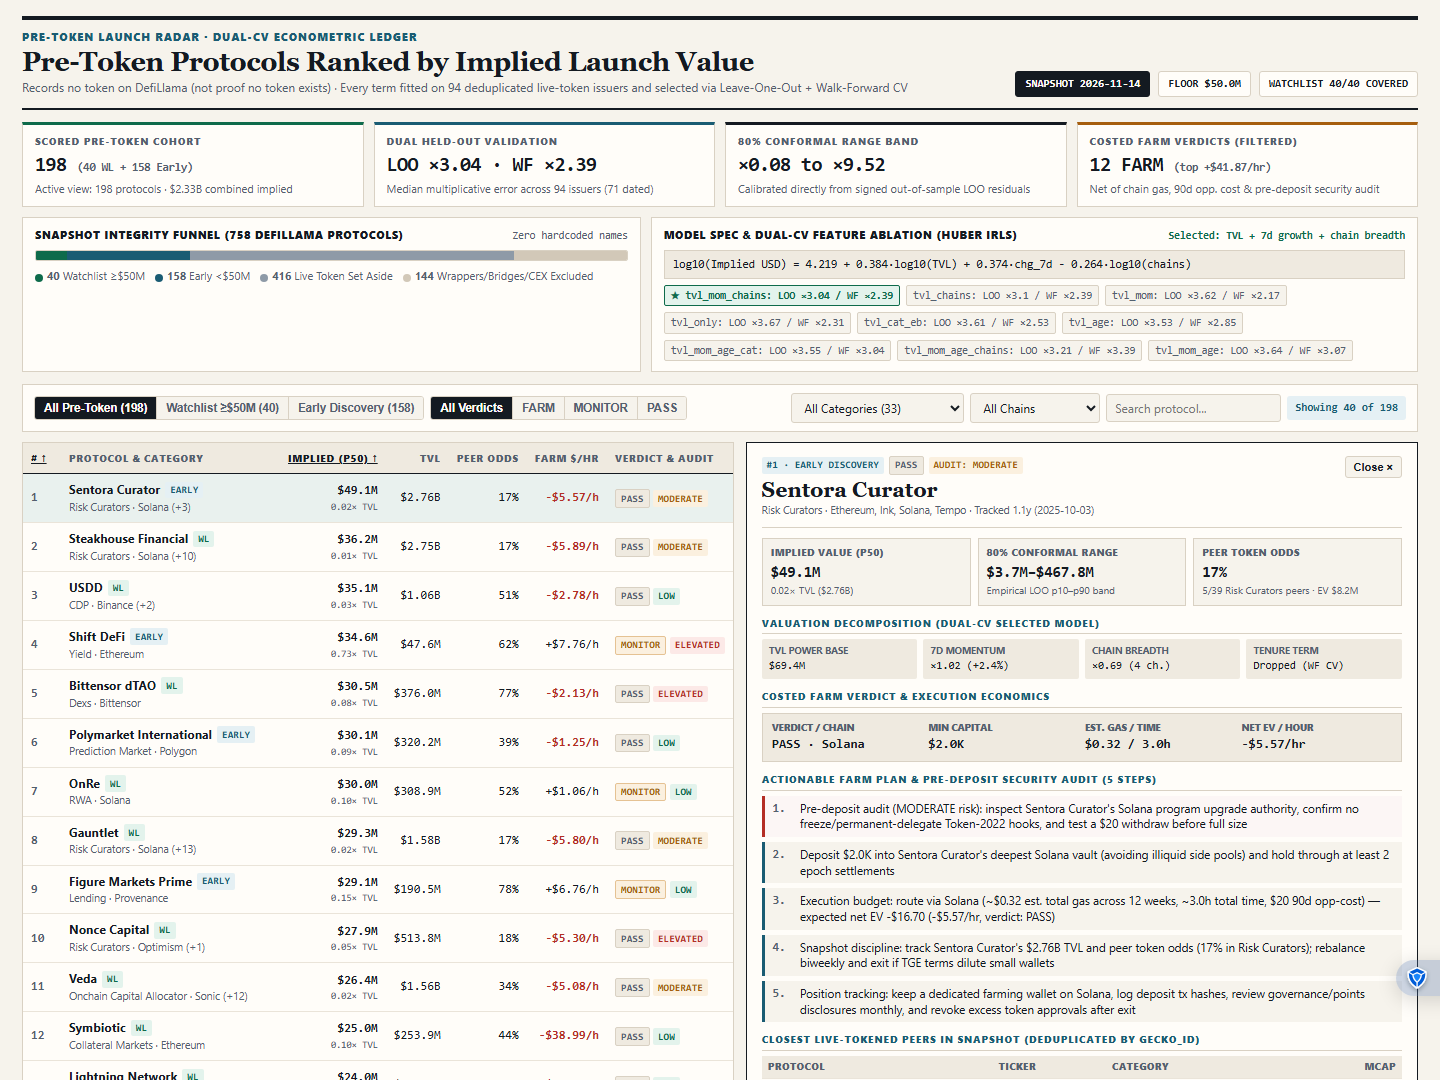
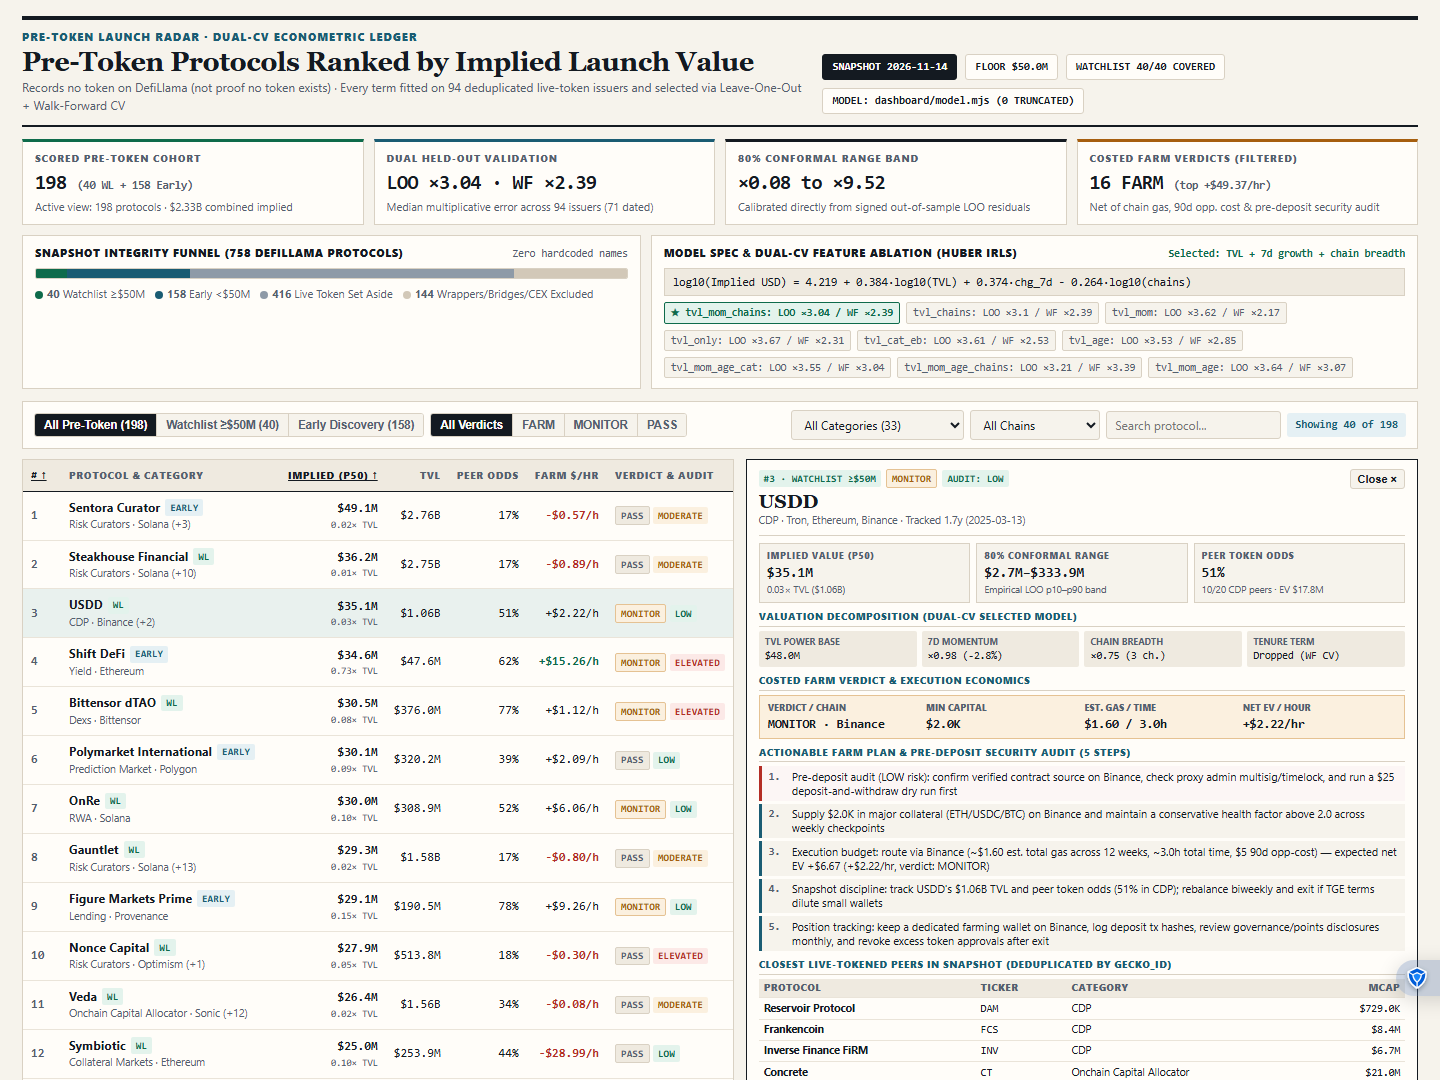
v3: yield-adjusted deposit financing friction, unclipped 4-peer detail panel, and 0-truncated model badge

Changed region(s): [[0.0, 0.0306, 1.0, 1.0]]

diff --git a/dashboard/app.css b/dashboard/app.css
@@ -382,24 +382,24 @@ td.num {
 .detail {
   background: var(--surface);
   border: 1.5px solid var(--rule-strong);
-  padding: 13px 15px;
+  padding: 9px 12px;
   position: sticky;
-  top: 12px;
+  top: 8px;
 }
 .detail-top {
   display: flex;
   justify-content: space-between;
   align-items: flex-start;
-  gap: 10px;
+  gap: 8px;
   border-bottom: 1.5px solid var(--rule);
-  padding-bottom: 9px;
-  margin-bottom: 10px;
+  padding-bottom: 6px;
+  margin-bottom: 7px;
 }
 .detail-top h2 {
   font-family: var(--serif);
-  font-size: 21px;
+  font-size: 19px;
   font-weight: 900;
-  line-height: 1.1;
+  line-height: 1.08;
 }
 .close-btn {
   border: 1px solid var(--rule);
@@ -407,23 +407,23 @@ td.num {
   color: var(--ink);
   font-weight: 700;
   font-size: 11px;
-  padding: 4px 8px;
+  padding: 3px 7px;
   cursor: pointer;
   border-radius: 3px;
 }
 .detail-metrics {
   display: grid;
   grid-template-columns: repeat(3, 1fr);
-  gap: 7px;
-  margin-bottom: 10px;
+  gap: 6px;
+  margin-bottom: 7px;
 }
 .dm {
   background: var(--bg);
   border: 1px solid var(--rule);
-  padding: 7px 8px;
+  padding: 5px 7px;
 }
 .dm-l {
-  font-size: 9.5px;
+  font-size: 9px;
   font-weight: 800;
   text-transform: uppercase;
   color: var(--muted);
@@ -431,42 +431,42 @@ td.num {
 }
 .dm-v {
   font-family: var(--mono);
-  font-size: 15px;
+  font-size: 14px;
   font-weight: 800;
-  margin-top: 2px;
+  margin-top: 1px;
 }
 .dm-s {
-  font-size: 10px;
+  font-size: 9.5px;
   color: var(--muted);
 }
 
 .section-h {
-  font-size: 10px;
+  font-size: 9.5px;
   font-weight: 800;
-  letter-spacing: 0.9px;
+  letter-spacing: 0.8px;
   text-transform: uppercase;
   color: var(--teal);
-  margin: 10px 0 5px;
+  margin: 7px 0 4px;
   border-bottom: 1px solid var(--rule);
-  padding-bottom: 3px;
+  padding-bottom: 2px;
 }
 .decomp-grid {
   display: grid;
   grid-template-columns: repeat(4, 1fr);
-  gap: 6px;
-  margin-bottom: 8px;
+  gap: 5px;
+  margin-bottom: 6px;
 }
 .dec-box {
   background: var(--surface-alt);
-  padding: 5px 7px;
+  padding: 4px 6px;
   border-radius: 2px;
   font-family: var(--mono);
-  font-size: 11px;
+  font-size: 10.5px;
 }
 .dec-box span {
   display: block;
   font-family: var(--sans);
-  font-size: 9.5px;
+  font-size: 9px;
   color: var(--muted);
   text-transform: uppercase;
   font-weight: 700;
@@ -475,42 +475,42 @@ td.num {
 .farm-econ {
   display: grid;
   grid-template-columns: repeat(4, 1fr);
-  gap: 6px;
+  gap: 5px;
   background: var(--emerald-bg);
   border: 1px solid #B5DFCE;
-  padding: 7px 9px;
-  margin-bottom: 8px;
+  padding: 5px 8px;
+  margin-bottom: 6px;
 }
 .farm-econ.monitor { background: var(--amber-bg); border-color: #E5C293; }
 .farm-econ.pass { background: var(--surface-alt); border-color: var(--rule); }
 .fe-item span {
   display: block;
-  font-size: 9.5px;
+  font-size: 9px;
   font-weight: 800;
   text-transform: uppercase;
   color: var(--muted);
 }
 .fe-item strong {
   font-family: var(--mono);
-  font-size: 13px;
+  font-size: 12.5px;
 }
 
 .steps-list {
   list-style: none;
   display: flex;
   flex-direction: column;
-  gap: 5px;
-  margin-bottom: 9px;
+  gap: 3px;
+  margin-bottom: 6px;
 }
 .steps-list li {
   display: grid;
-  grid-template-columns: 20px 1fr;
-  gap: 7px;
-  font-size: 11.7px;
-  line-height: 1.34;
+  grid-template-columns: 18px 1fr;
+  gap: 5px;
+  font-size: 10.9px;
+  line-height: 1.26;
   background: var(--bg);
   border-left: 3px solid var(--teal);
-  padding: 5px 8px;
+  padding: 3.5px 7px;
 }
 .steps-list li:first-child {
   border-left-color: var(--crimson);
@@ -525,10 +525,10 @@ td.num {
 .comps-table {
   width: 100%;
   border-collapse: collapse;
-  font-size: 11px;
+  font-size: 10.5px;
 }
 .comps-table th, .comps-table td {
-  padding: 4px 6px;
+  padding: 2.5px 5px;
   border-bottom: 1px solid #EAE4D9;
 }
 .comps-table th {

diff --git a/dashboard/app.js b/dashboard/app.js
@@ -218,6 +218,7 @@
           <span class="chip dark">SNAPSHOT ${esc(DATA.as_of)}</span>
           <span class="chip">FLOOR ${fmtUsd(DATA.floor_usd)}</span>
           <span class="chip">WATCHLIST ${c.watchlist}/${c.watchlist} COVERED</span>
+          <span class="chip">MODEL: dashboard/model.mjs (0 TRUNCATED)</span>
         </div>
       </header>
 
